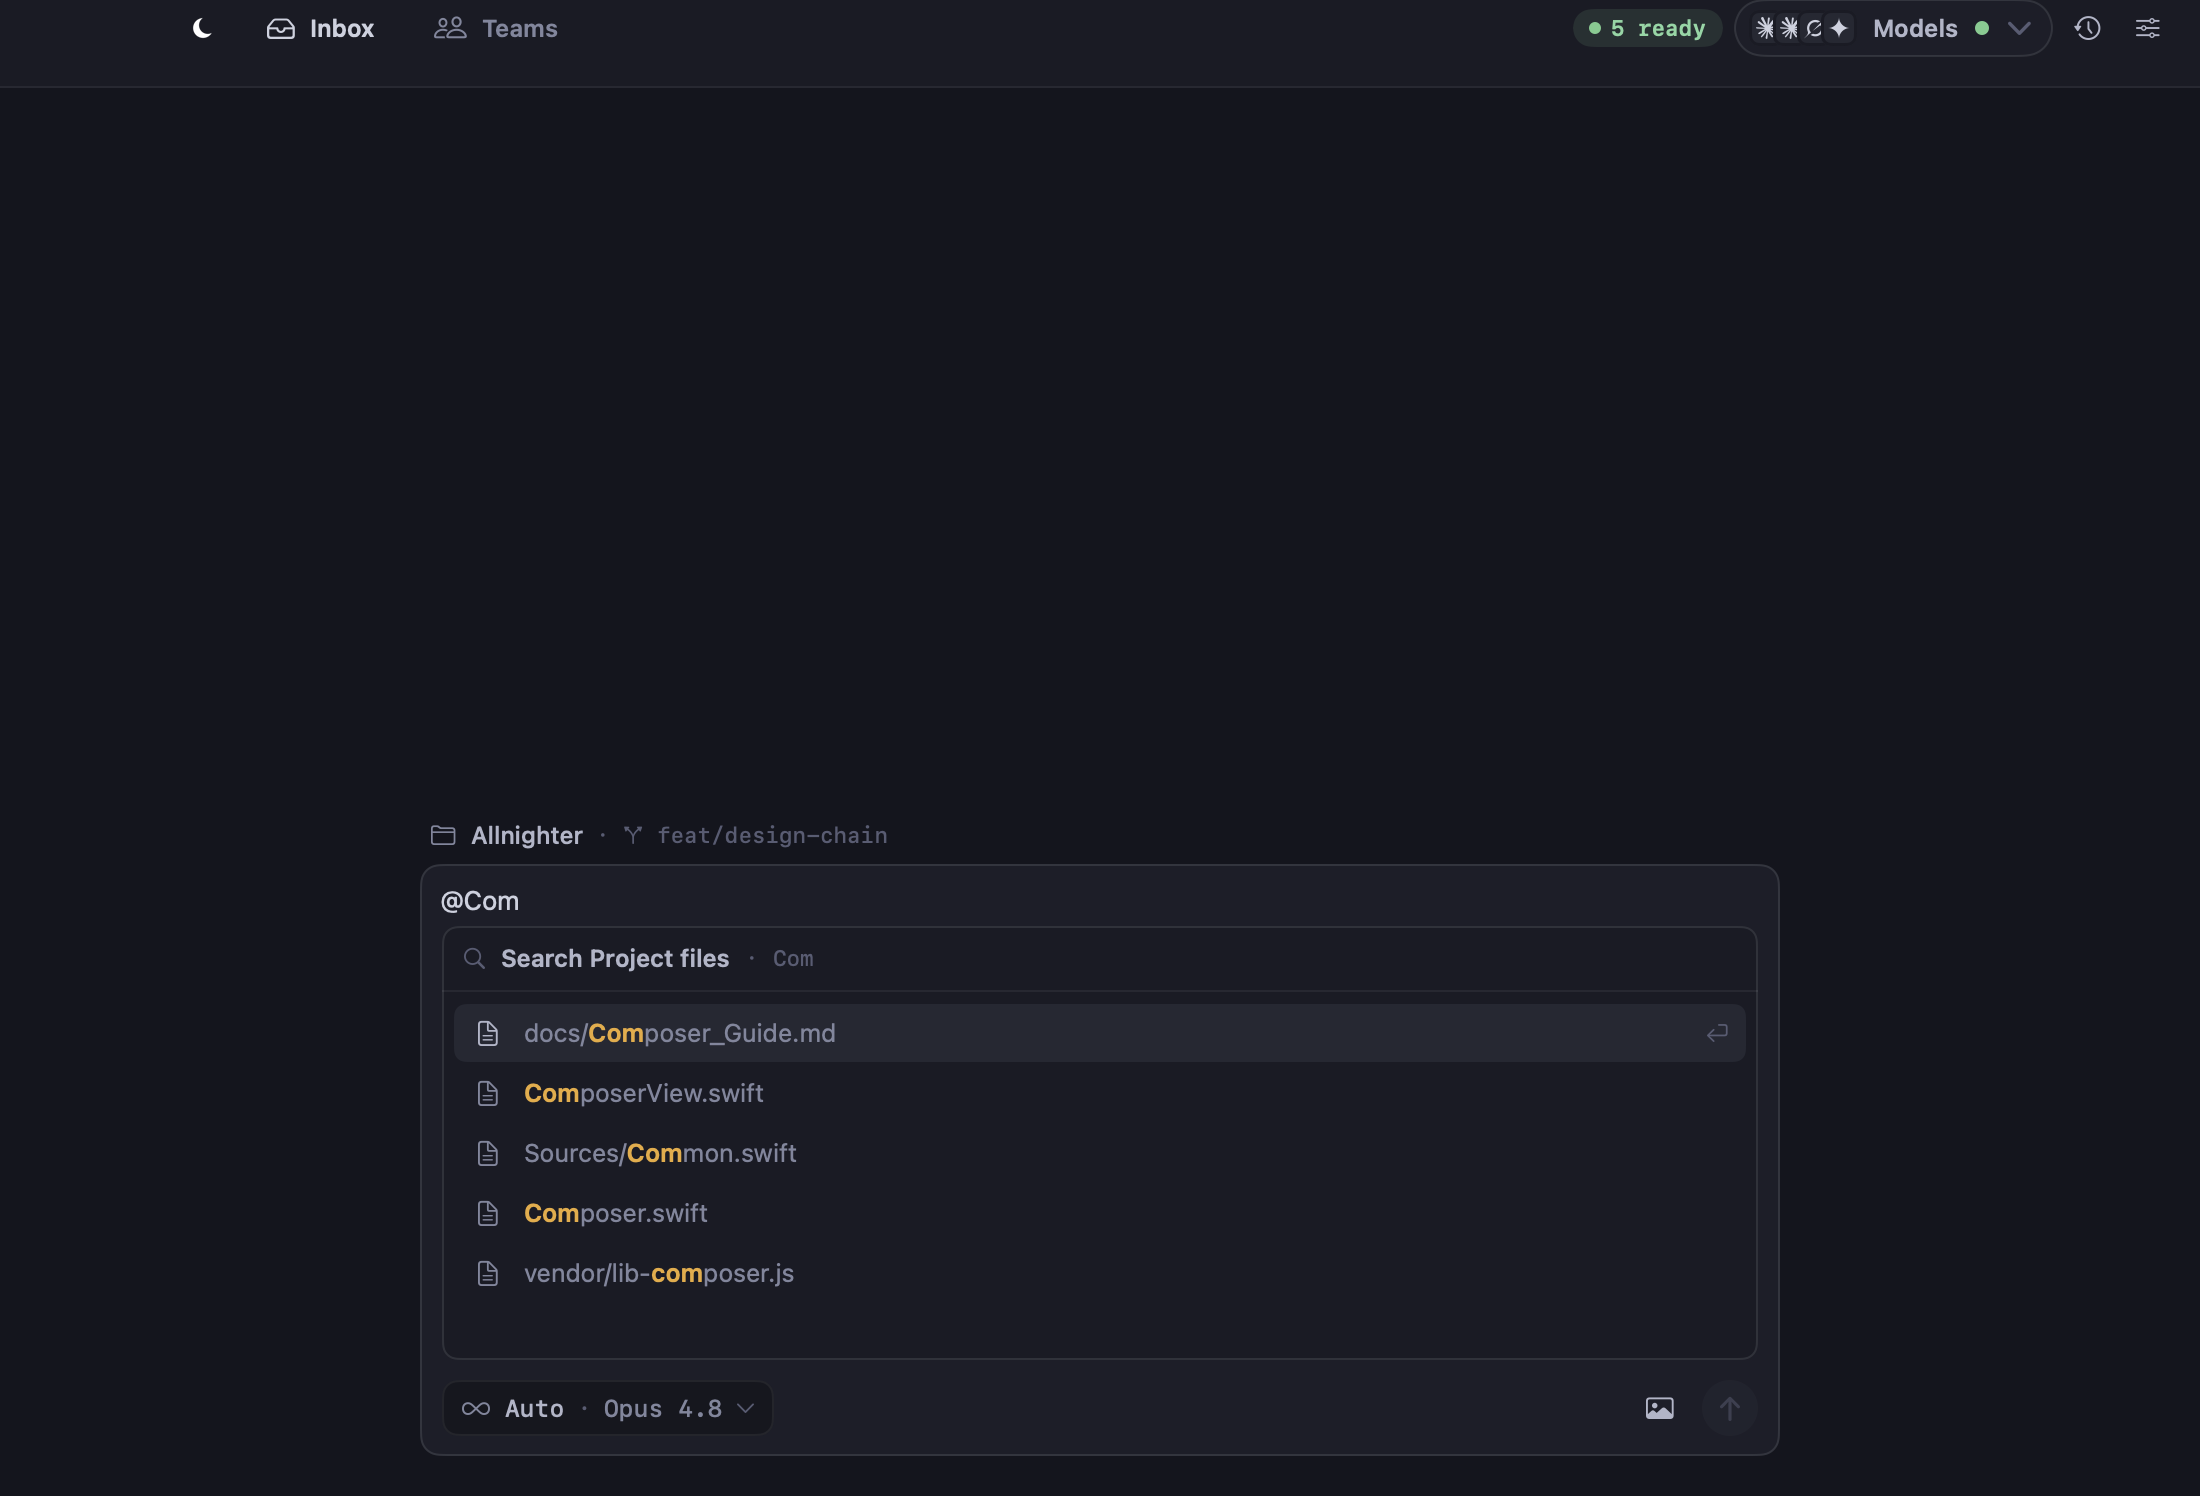
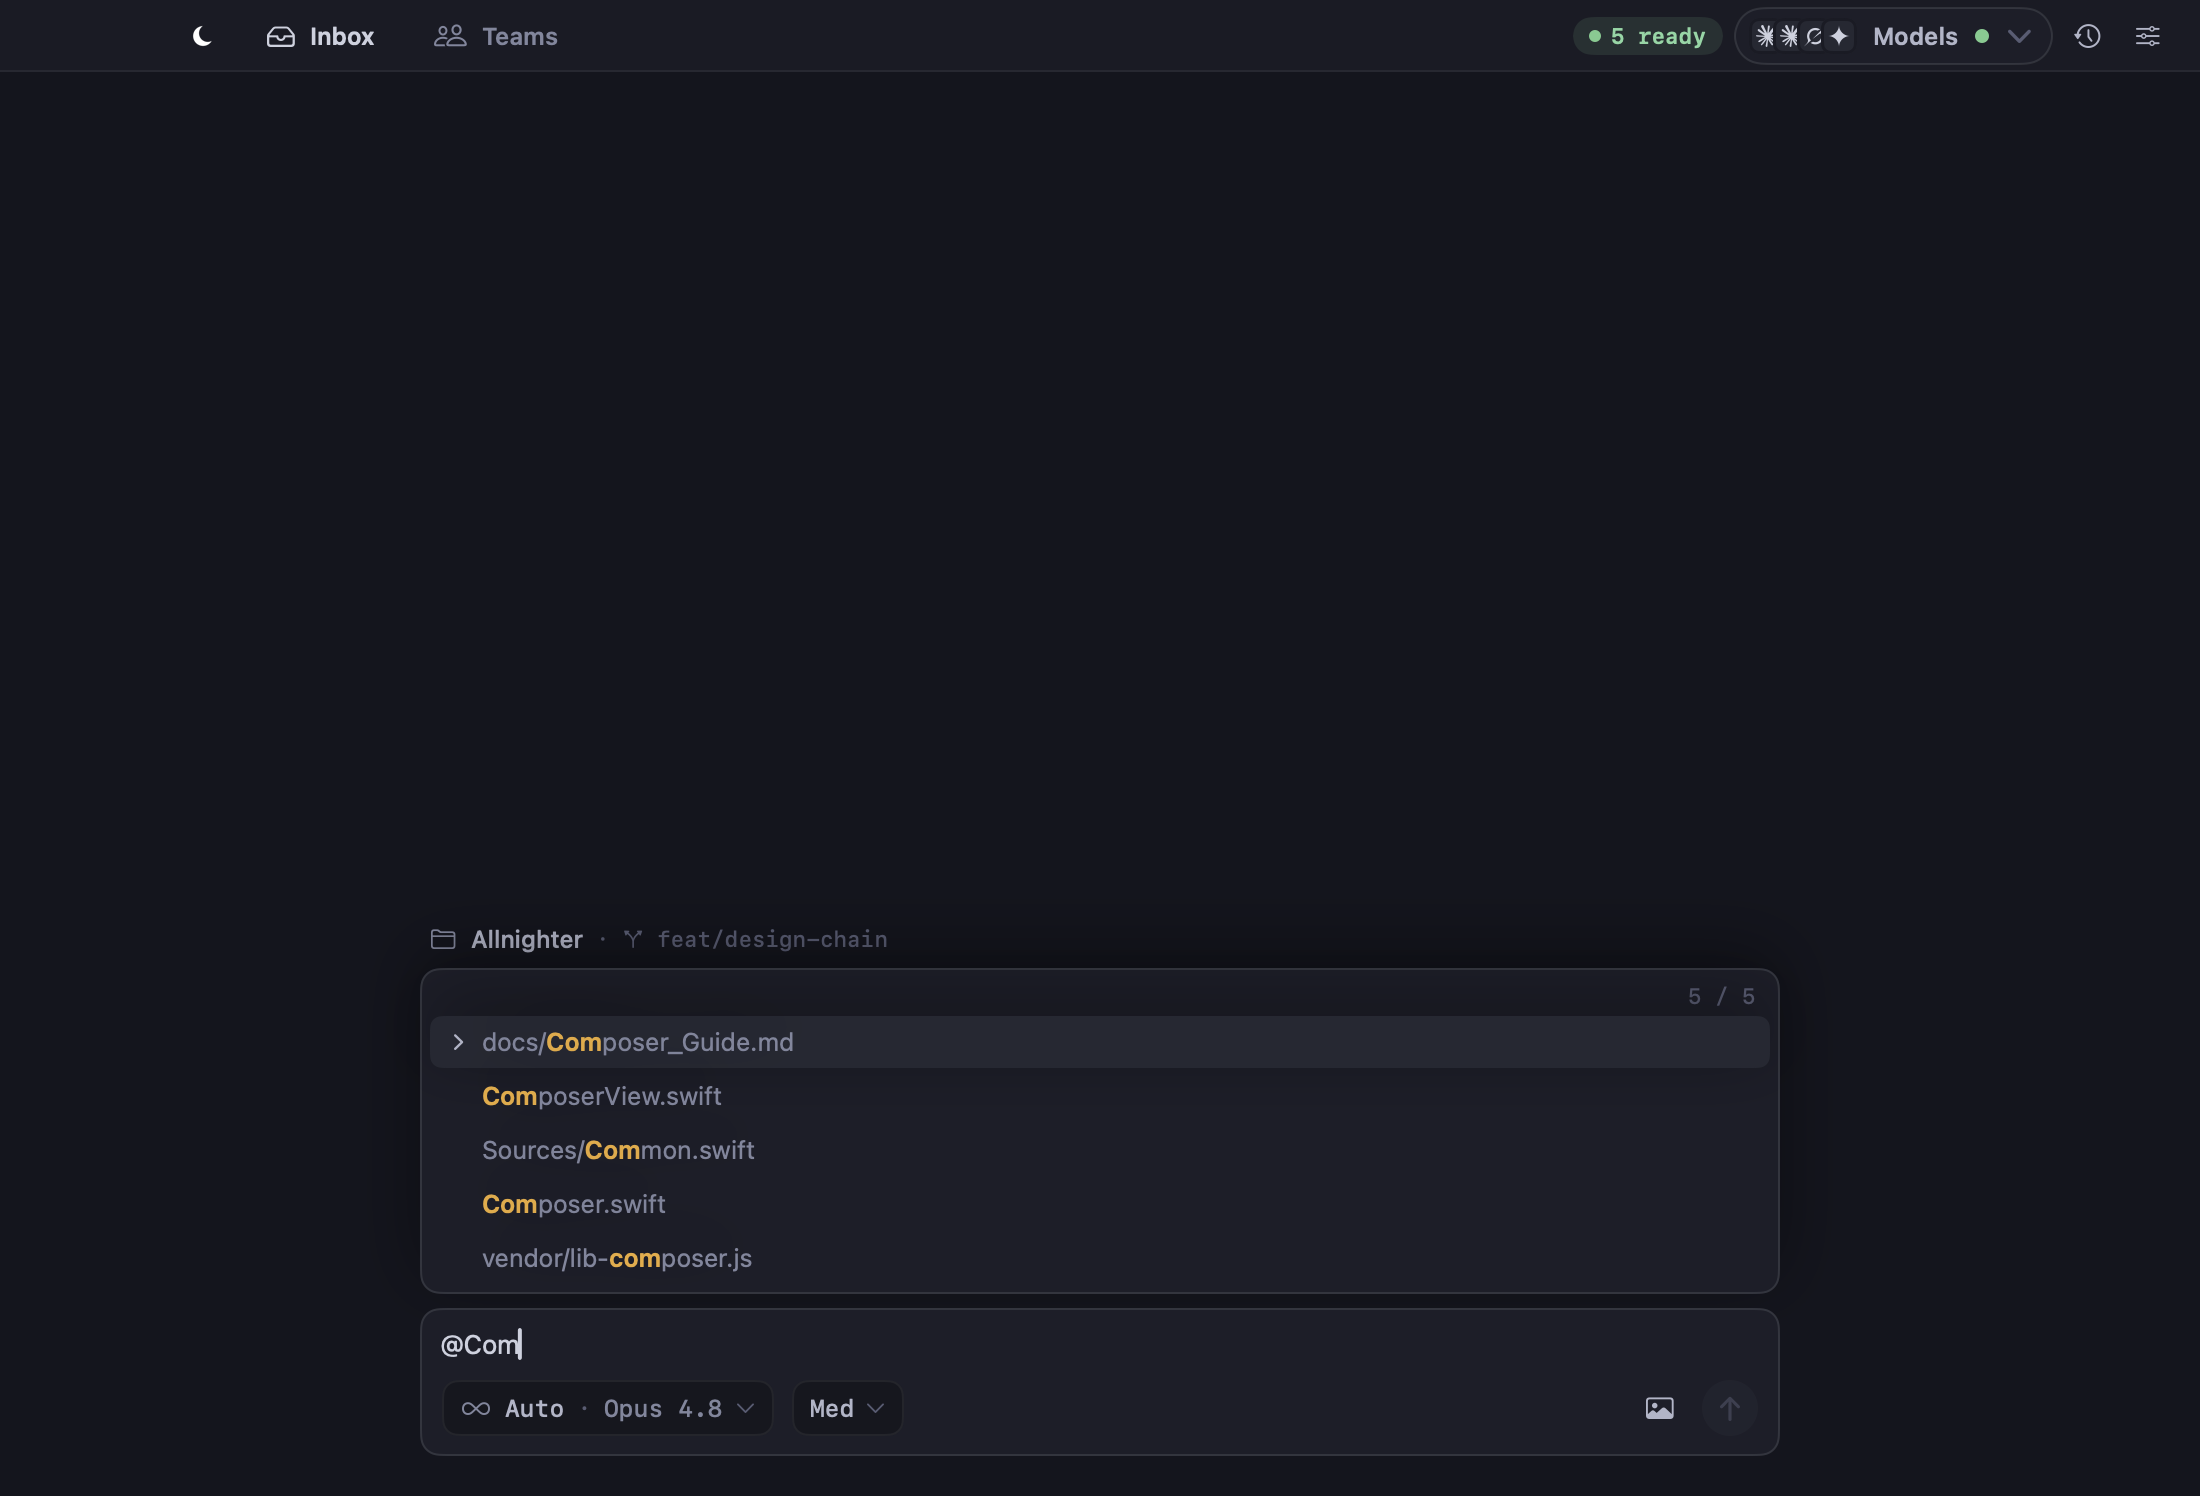
feat(composer): @ file refs as a floating autocomplete + shorter title bar
@ file references redesigned to an editor-grade autocomplete (founder: the old
search-box panel was 0/10):
- Floats ABOVE the composer (not a box inside it); no 'Search Project files'
  header/search field at all.
- Compact list that hugs its rows; top row selected by default (chevron + subtle
  bg); ↑/↓ move, ⏎ inserts, Esc dismisses (keyboard already wired). Matched chars
  highlighted; root-relative paths; 'N / total' scope count (ProjectFileCatalog
  .fileCount, cached per @-session). Shows nothing when there are no matches.
- Auto row now reads 'Auto (<resolved model>)' e.g. 'Auto (Opus 4.8)' instead of
  'Auto (Default model)'.

Title bar height 44 → 36 (founder: too tall vs a standard bar); content centered.

Re-sealed composer/file-reference-picker + home/projects-rail.

diff --git a/Apps/AllnighterMac/Sources/RoutingComposer.swift b/Apps/AllnighterMac/Sources/RoutingComposer.swift
@@ -95,6 +95,8 @@ struct RoutingComposer: View {
     @State private var effortOpen = false
     @State private var fileSearchOpen = false
     @State private var fileSearchQuery = ""
+    /// Project corpus size (cached per @-session) for the "N / total" scope hint.
+    @State private var fileTotalCount = 0
     @State private var fileCandidates: [ProjectFileCatalog.Candidate] = []
     @State private var highlightedFileIndex = 0
     @State private var selectedFileReferences: [ComposeFileReference] = []
@@ -155,6 +157,9 @@ struct RoutingComposer: View {
     var body: some View {
         VStack(alignment: .leading, spacing: 7) {
             if showsProject { projectScope }
+            // @-file suggestions FLOAT above the composer (autocomplete, not a search
+            // box): top row selected, ↑/↓ to move, ⏎ to insert, Esc to dismiss.
+            if showsFileSuggestions { fileSuggestions }
             box
         }
         .onAppear(perform: seedDefaults)
@@ -265,9 +270,6 @@ struct RoutingComposer: View {
             if !selectedFileReferences.isEmpty {
                 fileReferenceChips
             }
-            if fileSearchOpen || fileReferenceFixtureOpen {
-                fileReferencePanel
-            }
             bar
             #if DEBUG
             // Proof-only: the team picker is a native NSPopover (uncapturable in-process),
@@ -329,77 +331,56 @@ struct RoutingComposer: View {
         }
     }
 
-    private var fileReferencePanel: some View {
-        VStack(spacing: 0) {
-            HStack(spacing: 7) {
-                Image(systemName: "magnifyingglass")
-                    .font(.system(size: 11))
-                    .foregroundStyle(ALColor.textFaint)
-                Text("Search Project files")
-                    .font(.system(size: 12, weight: .semibold))
-                    .foregroundStyle(ALColor.textSecondary)
-                if !fileSearchQuery.isEmpty {
-                    Text("·")
-                        .font(ALFont.monoSm)
-                        .foregroundStyle(ALColor.textFaint)
-                    Text(fileSearchQuery)
-                        .font(ALFont.monoSm)
-                        .foregroundStyle(ALColor.textFaint)
-                        .lineLimit(1)
-                }
-                Spacer(minLength: 0)
-            }
-            .padding(.horizontal, 10)
-            .frame(height: 32)
-            Rectangle().fill(ALColor.borderSubtle).frame(height: 1)
-
-            if fileCandidates.isEmpty {
-                Text(projects.activeProject == nil ? "No Project selected" : "No matching files")
-                    .font(.system(size: 12))
-                    .foregroundStyle(ALColor.textFaint)
-                    .frame(maxWidth: .infinity)
-                    .padding(.vertical, 14)
-            } else {
-                ScrollView {
-                    VStack(spacing: 1) {
-                        ForEach(Array(fileCandidates.enumerated()), id: \.element.path) { index, candidate in
-                            fileCandidateRow(candidate, index: index)
-                        }
-                    }
-                    .padding(6)
-                }
-                .frame(maxHeight: 184)
-            }
-        }
-        .background(ALColor.surface, in: RoundedRectangle(cornerRadius: ALRadius.md))
-        .overlay { RoundedRectangle(cornerRadius: ALRadius.md).strokeBorder(ALColor.borderDefault, lineWidth: 1) }
-        .padding(.horizontal, 11)
-        .padding(.top, 5)
+    /// Show the floating suggestions only when there's something to pick — an open @
+    /// query with matches. No matches ⇒ nothing floats (no empty box).
+    private var showsFileSuggestions: Bool {
+        (fileSearchOpen || fileReferenceFixtureOpen) && !fileCandidates.isEmpty
     }
 
-    // One compact, ungrouped row: the doc icon + the root-relative FULL path with the
-    // matched characters highlighted (Grok-Build style), middle-truncated so the
-    // basename stays visible. No cards, no two-line basename/dir, no preview.
+    // A floating autocomplete that sits ABOVE the composer (no search box): a compact
+    // list of root-relative paths with matched chars highlighted, the top row selected,
+    // ↑/↓ to move, ⏎ to insert, Esc to dismiss — exactly the editor-grade @ pattern.
+    private var fileSuggestions: some View {
+        VStack(spacing: 0) {
+            // Quiet scope count, top-right (e.g. "6 / 1469" of project files).
+            HStack(spacing: 0) {
+                Spacer(minLength: 0)
+                Text(fileSearchQuery.isEmpty ? "\(fileCandidates.count)" : "\(fileCandidates.count) / \(fileTotalCount)")
+                    .font(ALFont.monoSm).foregroundStyle(ALColor.textFaint)
+            }
+            .padding(.horizontal, 12).padding(.top, 7).padding(.bottom, 3)
+            // Hug the rows (candidates are capped at 12) — no over-expanding scroll area,
+            // so the popup stays compact like a real autocomplete.
+            VStack(spacing: 1) {
+                ForEach(Array(fileCandidates.enumerated()), id: \.element.path) { index, candidate in
+                    fileCandidateRow(candidate, index: index)
+                }
+            }
+            .padding(.horizontal, 5).padding(.bottom, 5)
+        }
+        .background(ALColor.raised, in: RoundedRectangle(cornerRadius: ALRadius.lg))
+        .overlay { RoundedRectangle(cornerRadius: ALRadius.lg).strokeBorder(ALColor.borderDefault, lineWidth: 1) }
+        .shadow(color: .black.opacity(0.35), radius: 18, y: 8)
+    }
+
+    // One compact row: a chevron marks the selected row, then the root-relative FULL path
+    // with the matched characters highlighted (Grok-Build style), middle-truncated so the
+    // basename stays visible. No icon, no card, no preview.
     private func fileCandidateRow(_ candidate: ProjectFileCatalog.Candidate, index: Int) -> some View {
         let active = index == highlightedFileIndex
         return Button { selectFileReference(candidate.path) } label: {
-            HStack(spacing: 9) {
-                Image(systemName: "doc.text")
-                    .font(.system(size: 12))
-                    .foregroundStyle(active ? ALColor.textSecondary : ALColor.textMuted)
-                    .frame(width: 18)
+            HStack(spacing: 7) {
+                Image(systemName: "chevron.right")
+                    .font(.system(size: 9, weight: .semibold))
+                    .foregroundStyle(active ? ALColor.textSecondary : .clear)
+                    .frame(width: 10)
                 Text(highlightedPath(candidate.path, query: fileSearchQuery))
                     .lineLimit(1)
                     .truncationMode(.middle)
                 Spacer(minLength: 8)
-                if active {
-                    Image(systemName: "return")
-                        .font(.system(size: 10))
-                        .foregroundStyle(ALColor.textFaint)
-                }
             }
-            .padding(.horizontal, 8)
-            .padding(.vertical, 7)
+            .padding(.horizontal, 9)
+            .frame(height: 26)
             .frame(maxWidth: .infinity, alignment: .leading)
             .background(active ? ALColor.active : Color.clear, in: RoundedRectangle(cornerRadius: ALRadius.sm))
             .contentShape(Rectangle())
@@ -633,7 +614,9 @@ struct RoutingComposer: View {
         let root = project.normalizedRootPath.isEmpty ? project.localRootPath : project.normalizedRootPath
         #endif
         let selectedPaths = Set(selectedFileReferences.map(\.path))
-        fileCandidates = ProjectFileCatalog().candidates(
+        let catalog = ProjectFileCatalog()
+        if fileTotalCount == 0 { fileTotalCount = catalog.fileCount(rootPath: root) }
+        fileCandidates = catalog.candidates(
             rootPath: root,
             query: fileSearchQuery,
             limit: 12,
@@ -647,6 +630,7 @@ struct RoutingComposer: View {
         fileSearchOpen = false
         fileSearchQuery = ""
         fileCandidates = []
+        fileTotalCount = 0
         highlightedFileIndex = 0
     }
 
@@ -851,7 +835,7 @@ struct RoutingComposer: View {
                 Image(systemName: "infinity").font(.system(size: 11)).foregroundStyle(ALColor.textSecondary)
                     .frame(width: 18, height: 18)
                     .background(ALColor.active, in: RoundedRectangle(cornerRadius: 5))
-                rowLabel("Auto", "Default model", primary: true)
+                rowLabel("Auto", autoModelName ?? "Default model", primary: true)
                 Spacer(minLength: 8)
                 if isAutoSelected { Image(systemName: "checkmark").font(.system(size: 12)).foregroundStyle(ALColor.textSecondary) }
             }

diff --git a/Packages/AllnighterCore/Sources/AllnighterEngine/ProjectFileReferenceResolver.swift b/Packages/AllnighterCore/Sources/AllnighterEngine/ProjectFileReferenceResolver.swift
@@ -453,6 +453,13 @@ public struct ProjectFileCatalog {
         return dirty
     }
 
+    /// Total referenceable files in the project — the corpus size behind the `N / total`
+    /// scope hint in the `@` picker.
+    public func fileCount(rootPath: String) -> Int {
+        let rootURL = URL(fileURLWithPath: rootPath).standardizedFileURL
+        return (gitTrackedAndUntrackedFiles(rootURL: rootURL) ?? walkFiles(rootURL: rootURL)).count
+    }
+
     private func gitTrackedAndUntrackedFiles(rootURL: URL) -> [String]? {
         let process = Process()
         process.currentDirectoryURL = rootURL

diff --git a/Apps/AllnighterMac/Sources/AllnighterTokens.swift b/Apps/AllnighterMac/Sources/AllnighterTokens.swift
@@ -199,7 +199,7 @@ enum ALControl {
     static let height:   CGFloat = 30   // default button / input
     static let heightLg: CGFloat = 36
     static let sidebarWidth: CGFloat = 264
-    static let titleBarHeight: CGFloat = 44
+    static let titleBarHeight: CGFloat = 36
     /// Leading inset to clear the macOS traffic-light controls in the hidden title bar.
     static let trafficLightInset: CGFloat = 70
     static let readingMax: CGFloat = 680 // composer column cap

diff --git a/Apps/AllnighterMac/Sources/RootTitleBar.swift b/Apps/AllnighterMac/Sources/RootTitleBar.swift
@@ -41,7 +41,7 @@ struct TitleBar: View {
             }
         }
         .padding(.horizontal, 14)
-        .frame(minHeight: ALControl.titleBarHeight, alignment: .top)
+        .frame(height: ALControl.titleBarHeight)
         .background(WindowDragArea())
         .background(ALColor.surface)
         .overlay(alignment: .bottom) { Rectangle().fill(ALColor.borderSubtle).frame(height: 1) }

diff --git a/docs/qa/gui/composer/2026-06-20-file-reference-picker/watcher.md b/docs/qa/gui/composer/2026-06-20-file-reference-picker/watcher.md
@@ -5,15 +5,11 @@ Command: bash scripts/gui_proof.sh compose-file-reference
 
 ## VERDICT: PASS
 
-All five rows render as single-line root-relative paths with amber match highlights on the
-"Com" substring, one ungrouped list, header "Search Project files · Com". Ranking visible:
-docs/Composer_Guide.md first (readable-doc tiebreak), vendor/lib-composer.js last (vendor
-sink). No clipping/overlap.
+@-file references are now a floating autocomplete ABOVE the composer (no search box):
+compact list hugging its rows, top row selected (chevron + subtle bg), matched chars
+highlighted amber, root-relative paths, "5 / 5" scope count top-right. ↑/↓ move, ⏎
+inserts, Esc dismisses (keyboard wired in handleEditorCommand). Title bar is the shorter
+36pt height. No clipping/overlap.
 
-P1 — broken (blocks):
-- none
-
-P2 — advisory:
-- ↩ glyph appears only on row 1 — that's the keyboard-highlighted candidate
-  (highlightedFileIndex = 0), correct.
-- ~8px dead space below the last row — minor panel padding, not broken.
+P1 — broken (blocks): none
+P2 — advisory: none

diff --git a/docs/qa/gui/home/2026-06-20-projects-rail/watcher.md b/docs/qa/gui/home/2026-06-20-projects-rail/watcher.md
@@ -5,9 +5,8 @@ Command: bash scripts/gui_proof.sh projects-rail
 
 ## VERDICT: PASS
 
-The "1 more" expander now renders NEUTRAL/muted gray (was amber) — old chats don't
-scream. Draft rows show the quiet dashed dot + muted non-bold text; the one unread
-row keeps its earned amber dot + bold. No clipping/overlap.
+Title bar is the shorter 36pt height (was 44) — reads as a standard compact toolbar,
+content vertically centered. Rail rows + "N more" neutral as before. No clipping.
 
 P1 — broken (blocks): none
-P2 — advisory: group-header aggregate unread dot stays amber (earned — unread).
+P2 — advisory: none
